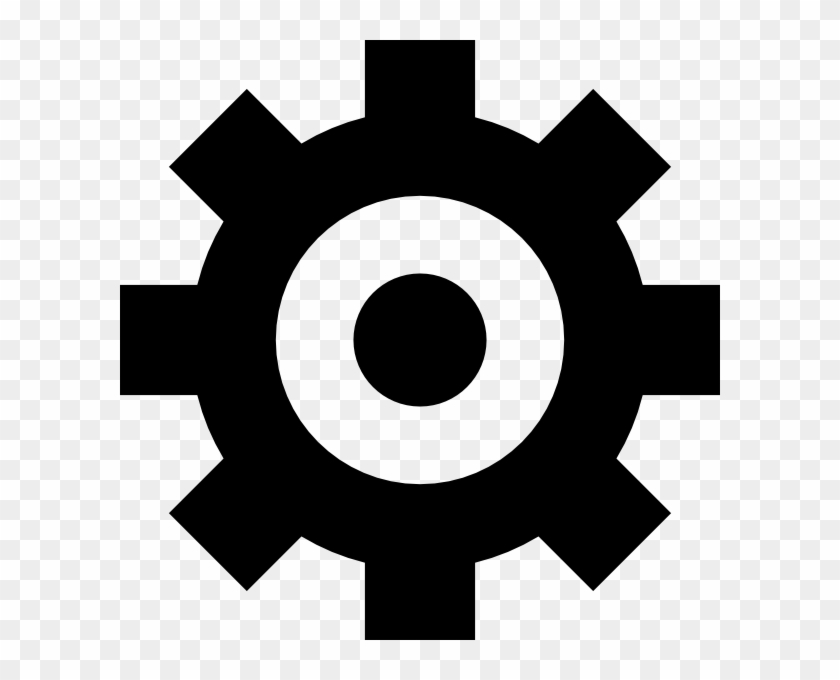
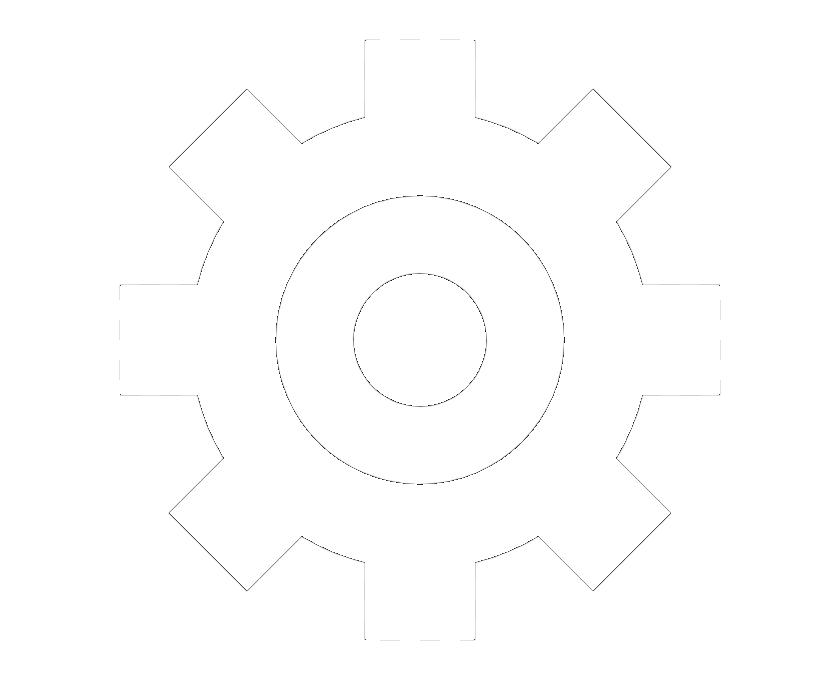
corrigé le bug du drop menu qui s\'ouvrait au 2ème clique au chargement de la page et ajusté le style de l'engrenage

diff --git a/src/assets/styles.css b/src/assets/styles.css
@@ -2,7 +2,7 @@
     font-family: 'Trebuchet MS', sans-serif;
     position: fixed;
     width: 100%;
-    background: #FF2872;
+    background: #000;
     z-index: 99999999999999999999;
     left: 0rem;
     top: 0rem;
@@ -66,14 +66,16 @@
     padding: 10px;
     font-size: 16px;
     height: 55px;
-    opacity: 0.5;
-    filter: invert(1);
+    /* opacity: 1; */
+    /* filter: invert(1); */
     cursor: pointer;
     transition: 0.3s;
 }
 
 .dropbtn:hover, .dropbtn:focus {
-    opacity:1;
+    /* opacity:0.5; */
+    background-color: rgba(221, 221, 221, 0.233);
+
 }
 
 .dropdown {
@@ -84,7 +86,6 @@
 }
 
 .dropdown-content {
-    visibility: hidden;
     position: fixed;
     border-radius: 9px;
     background-color: #333;
@@ -102,10 +103,9 @@
     display: block;
 }
 
-.dropbtn:hover{
-    background-color: rgba(221, 221, 221, 0.233);
+/* .dropbtn:hover{
     background: rgba(221, 221, 221, 0.233);
-}
+} */
 
 .dropdown a:hover {background-color: rgba(221, 221, 221, 0.233);}
 

diff --git a/utils.py b/utils.py
@@ -16,12 +16,12 @@ def navbar_component():
 
     navbar_items = ''
     for key, value in NAVBAR_PATHS.items():
-        navbar_items += (f'<a class="navitem" href="/?nav=%2F{value}">{key}</a>')
+        navbar_items += (f'<a target="_self" class="navitem" href="/?nav=/{value}">{key}</a>')
 
     settings_items = ''
     for key, value in SETTINGS.items():
         settings_items += (
-            f'<a href="/?nav={value}" class="settingsNav">{key}</a>')
+            f'<a target="_self" href="/?nav=/{value}" class="settingsNav">{key}</a>')
 
     component = rf'''
             <nav class="container navbar" id="navbar">
@@ -41,8 +41,10 @@ def navbar_component():
     <script>
         // Dropdown hide / show
         var dropdown = window.parent.document.getElementById("settingsDropDown");
+        var dropWindow = window.parent.document.getElementById("myDropdown")
+        dropWindow.style.visibility = "hidden";
+
         dropdown.onclick = function() {
-            var dropWindow = window.parent.document.getElementById("myDropdown");
             if (dropWindow.style.visibility == "hidden"){
                 dropWindow.style.visibility = "visible";
             }else{

diff --git a/src/router.py b/src/router.py
@@ -4,15 +4,15 @@ import time
 
 def get_route():
     url = st.query_params.get("nav")
+    print(url)
     url = url[0] if type(url) == list else url
-    print(url[0])
-    route = unquote(url) if url is not None else url
-    
+    route = unquote(url) if url is not None else "/home"
     return route
 
 def redirect(new_route, reload=False):
     if new_route[0] != "/":
         new_route = "/" + new_route
+    print(new_route)
     st.query_params.update(nav=new_route)
 
     time.sleep(0.1) 

diff --git a/src/views/page_404.py b/src/views/page_404.py
@@ -2,4 +2,4 @@ import streamlit as st
 
 def load_view():
     st.title('404 Page')
-    st.write("This page doesn't exist, please go back to the [home page](/?nav=/home)")
+    st.markdown('This page doesn\'t exist, please go back to the <a href="/?nav=/home" target="_self">home page</a>', unsafe_allow_html=True)
